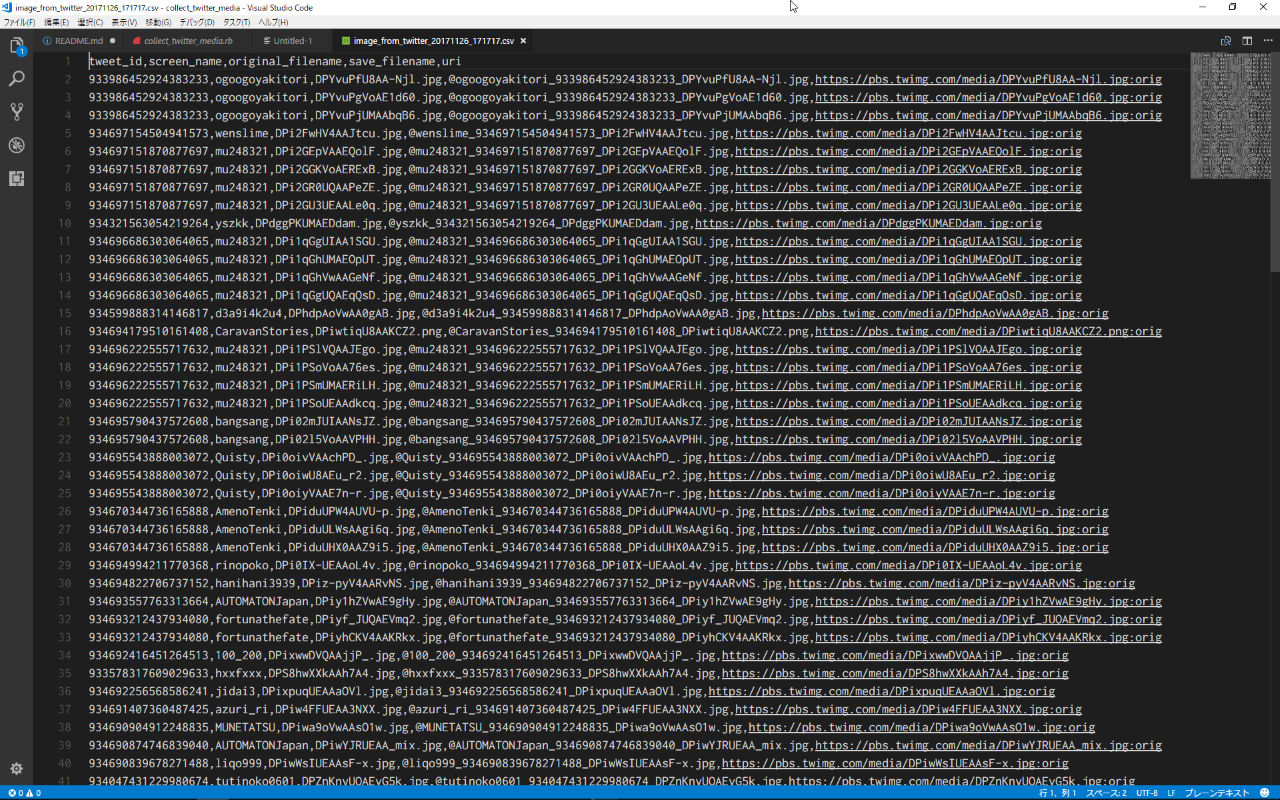
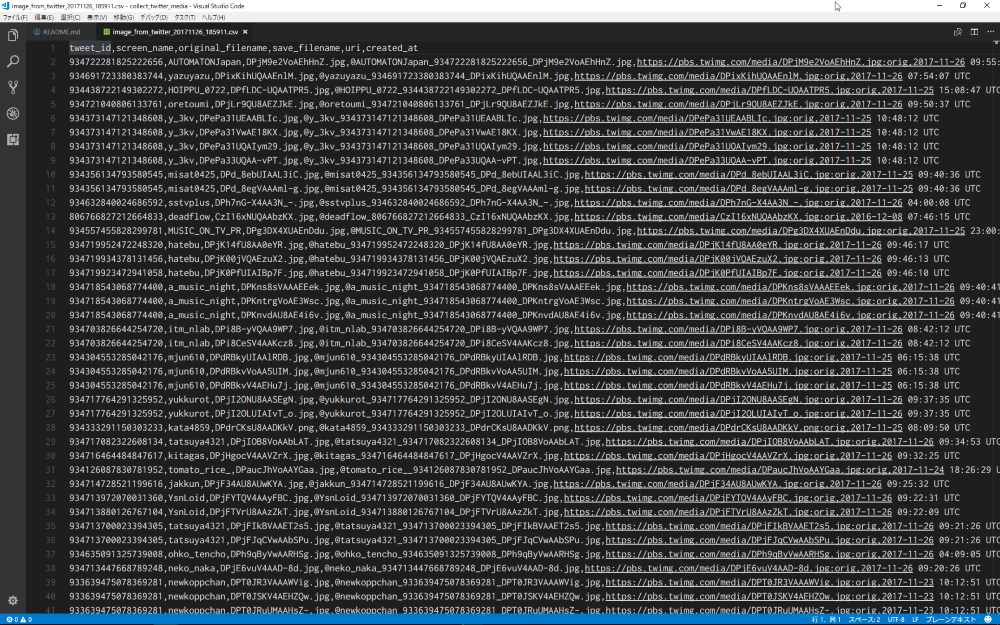
[update] updae README
update README and Screenshot because of adding a new column to CSV file

diff --git a/README.md b/README.md
@@ -42,20 +42,21 @@ CollectTwitterMedia.save('media_collection')
         - `@twitter_screen_name`
         - `tweet_id`
         - `media_id`
-    - the example of filename are below
+    - the example of filename
         - `@dhh_934687159870177697_dPi3GGKVoAERExB.jpg`
         - `@tenderlove_924694994511770368_IPi5IX-UEAAoL4v.jpg`
 - in the directory you specified, the csv files was created
-    - the columns of this csv file are below
+    - the columns of this csv file
         - `tweet_id`
         - `screen_name`
         - `original_filename`
         - `save_filename`
         - `uri`
+        - `created_at`
     - the filename of this csv file has 2 parts
         - `image_from_twitter`
         - `%Y%m%d_%H%M%S`
-    - the example of filename are below
+    - the example of filename
         - `image_from_twitter_20171126_171717.csv`
         - `image_from_twitter_20171224_210000.csv`
 
@@ -67,7 +68,7 @@ CollectTwitterMedia.save('media_collection')
 ![the_csv_file](the_csv_file.png "the_csv_file")
 
 # Options
-- the `save` method can take 4 argvs as below
+- the `save` method can take 4 argvs
     - the first:  the directory name to collect
     - the second: the collect count of tweet per loop (default: 200)
     - the third:  the loop count to collect media (default: 1)
@@ -89,3 +90,13 @@ Bug reports and pull requests are welcome on GitHub at https://github.com/[USERN
 
 ## License
 The gem is available as open source under the terms of the [MIT License](https://opensource.org/licenses/MIT).
+
+## History
+
+#### 2017-11-26
+- Version 1.1.0
+    - add `created_at` column to the output CSV file
+
+#### 2017-11-26
+- Version 1.0.0
+    - first release
